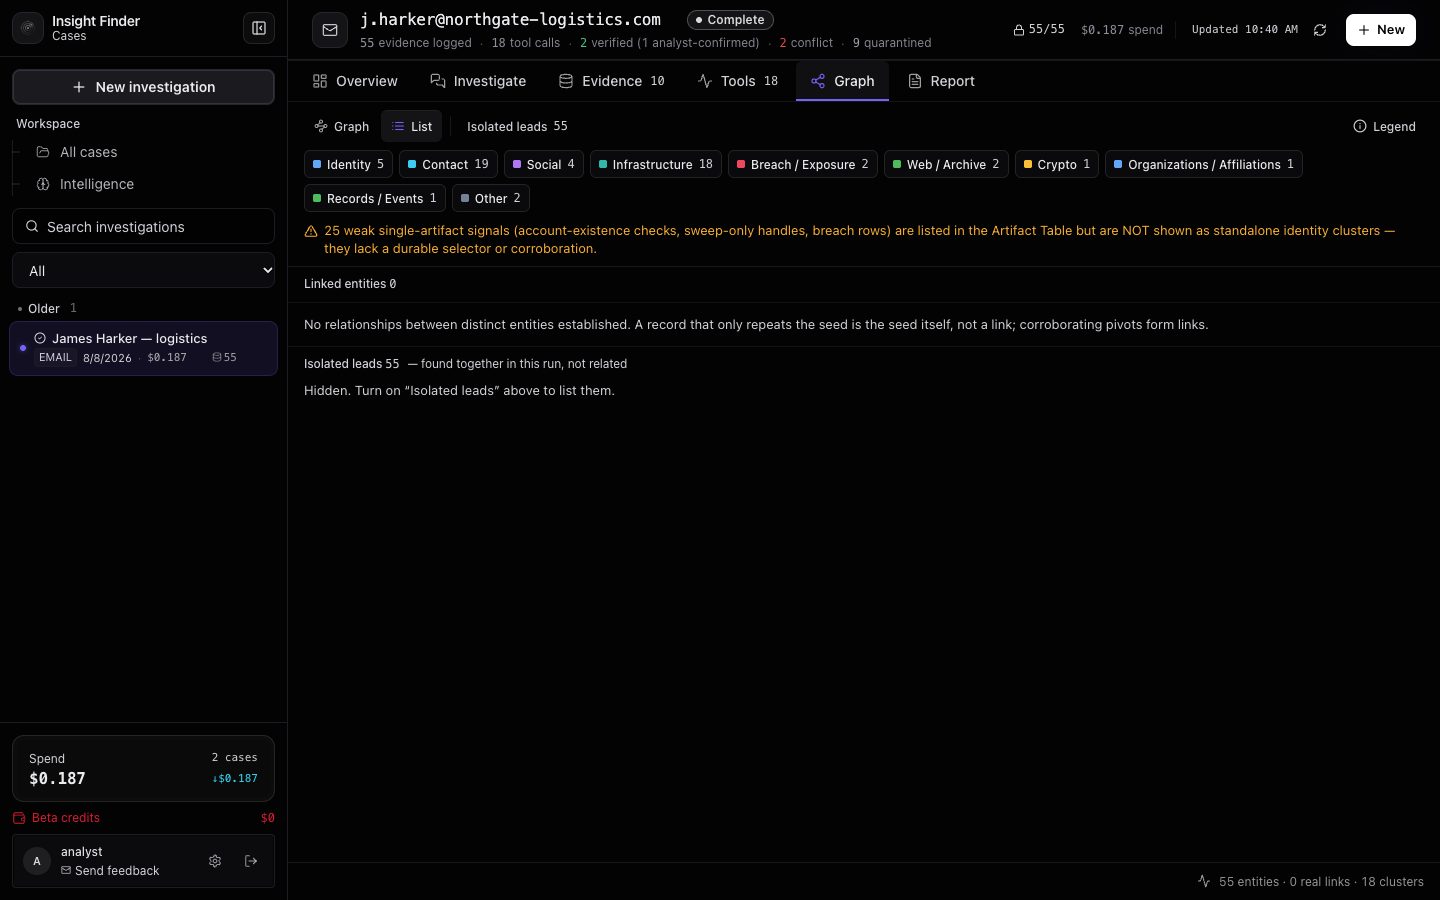
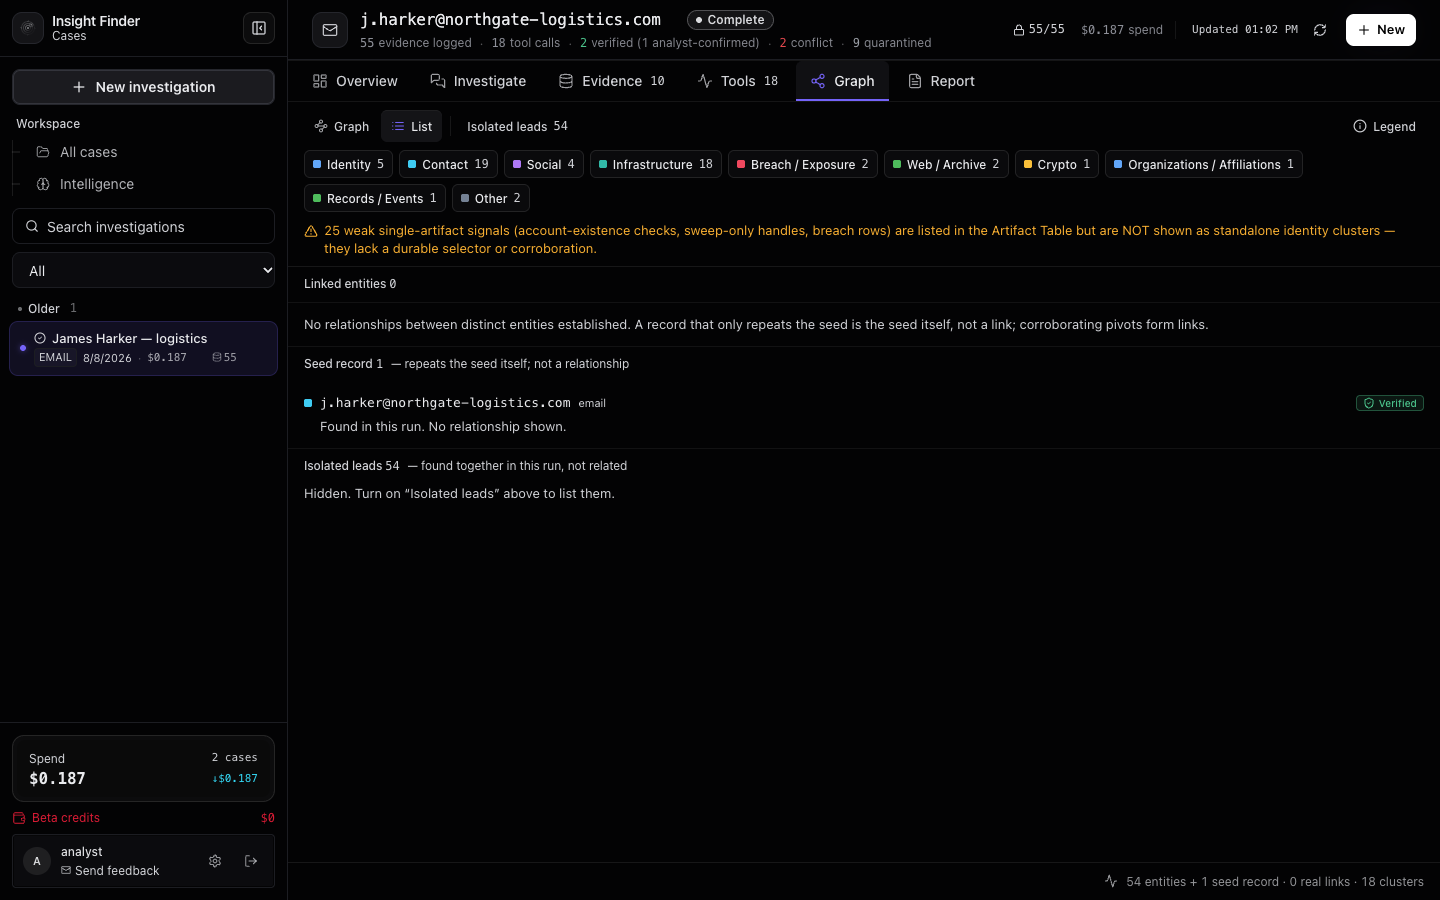
fix(workspace): one definition of isolated leads; seed records get their own section and footer count
Toggle count, list section, canvas filter and stats.isolatedCount now share isIsolatedLead(); the
seed's own record stays inspectable (always drawn, own list section) but is neither a lead nor a
relationship, and the footer reports 'N entities + 1 seed record'.

Changed region(s): [[0.2188, 0.3733, 0.4375, 0.56], [0.7812, 0.9644, 0.875, 0.9956], [0.9375, 0.4356, 1.0, 0.4667]]

diff --git a/src/components/workspace/GraphTab.tsx b/src/components/workspace/GraphTab.tsx
@@ -23,6 +23,8 @@ import {
   type EdgeType,
   type EntityGraph,
   type GraphNode as EntityNodeModel,
+  isIsolatedLead,
+  linkedNodeIds,
 } from "@/lib/entity-graph";
 import { ConfidenceMeter } from "@/components/investigation/primitives";
 import { CopyButton } from "@/components/ui/workspace-primitives";
@@ -196,20 +198,9 @@ const EntityNode = memo(function EntityNode({ data, selected }: NodeProps<Entity
 
 const nodeTypes = { entity: EntityNode };
 
-/** Nodes with at least one REAL relationship (identity or shared infrastructure). */
-function linkedNodeIds(graph: EntityGraph): Set<string> {
-  const ids = new Set<string>();
-  for (const e of graph.edges) {
-    if (e.type === "seed-discovery") continue;
-    ids.add(e.source);
-    ids.add(e.target);
-  }
-  return ids;
-}
-
 function toRfNodes(graph: EntityGraph, hidden: Set<Group>, showIsolated = true): Node<EntityNodeData>[] {
   const linked = linkedNodeIds(graph);
-  const visible = graph.nodes.filter((n) => (n.isSeed || !hidden.has(n.group)) && (showIsolated || n.isSeed || linked.has(n.id)));
+  const visible = graph.nodes.filter((n) => (n.isSeed || !hidden.has(n.group)) && (showIsolated || n.isSeed || n.seedRecord || linked.has(n.id)));
   const parts = splitSharedSuffixes(visible.map((n) => n.label));
   return visible
     .map((n) => ({
@@ -239,7 +230,7 @@ function toRfEdges(graph: EntityGraph, hidden: Set<Group>, selected: string | nu
   const linked = linkedNodeIds(graph);
   const visible = new Set(
     graph.nodes
-      .filter((n) => (n.isSeed || !hidden.has(n.group)) && (showIsolated || n.isSeed || linked.has(n.id)))
+      .filter((n) => (n.isSeed || !hidden.has(n.group)) && (showIsolated || n.isSeed || n.seedRecord || linked.has(n.id)))
       .map((n) => n.id),
   );
   return graph.edges
@@ -426,7 +417,7 @@ export function GraphTab({ threadId }: { threadId: string }) {
   const selectedAuthority = selectedNode?.art ? authorityFor(selectedNode.art, review.get(selectedNode.art.id)) : null;
   const linkedIds = useMemo(() => linkedNodeIds(graph), [graph]);
   const isolatedCount = useMemo(
-    () => graph.nodes.filter((n) => !n.isSeed && !linkedIds.has(n.id)).length,
+    () => graph.nodes.filter((n) => isIsolatedLead(n, linkedIds)).length,
     [graph, linkedIds],
   );
   const connections = useMemo(() => {
@@ -702,7 +693,7 @@ export function GraphTab({ threadId }: { threadId: string }) {
         <div className="ml-auto flex items-center gap-3">
           <span className="inline-flex items-center gap-2 text-data text-muted-foreground/70">
             <Activity className="h-3.5 w-3.5" />
-            {graph.stats.nodeCount} entit{graph.stats.nodeCount === 1 ? "y" : "ies"} · {graph.stats.realEdgeCount} real link{graph.stats.realEdgeCount === 1 ? "" : "s"} · {graph.stats.clusterCount} cluster{graph.stats.clusterCount === 1 ? "" : "s"}
+            {graph.stats.nodeCount - graph.stats.seedRecordCount} entit{graph.stats.nodeCount - graph.stats.seedRecordCount === 1 ? "y" : "ies"}{graph.stats.seedRecordCount > 0 && <> + {graph.stats.seedRecordCount} seed record{graph.stats.seedRecordCount > 1 ? "s" : ""}</>} · {graph.stats.realEdgeCount} real link{graph.stats.realEdgeCount === 1 ? "" : "s"} · {graph.stats.clusterCount} cluster{graph.stats.clusterCount === 1 ? "" : "s"}
             {graph.stats.bridgeCount > 0 && <> · {graph.stats.bridgeCount} bridge{graph.stats.bridgeCount > 1 ? "s" : ""}</>}
           </span>
         </div>
@@ -742,7 +733,8 @@ function GraphList({
   const byId = new Map(graph.nodes.map((n) => [n.id, n] as const));
   const visible = graph.nodes.filter((n) => !n.isSeed && !hidden.has(n.group));
   const linked = visible.filter((n) => linkedIds.has(n.id));
-  const isolated = visible.filter((n) => !linkedIds.has(n.id));
+  const isolated = visible.filter((n) => isIsolatedLead(n, linkedIds));
+  const seedRecords = visible.filter((n) => n.seedRecord);
 
   const row = (n: EntityNodeModel) => {
     const view = n.art ? authorityFor(n.art, review(n.art.id)) : null;
@@ -786,6 +778,15 @@ function GraphList({
           <ul className="divide-y divide-white/[0.06]">{linked.map(row)}</ul>
         )}
       </section>
+      {seedRecords.length > 0 && (
+        <section aria-labelledby="graph-list-seed-record" className="border-t border-white/[0.06]">
+          <h3 id="graph-list-seed-record" className="px-4 py-2 text-data font-medium text-muted-foreground">
+            Seed record <span className="font-mono tabular-nums">{seedRecords.length}</span>
+            <span className="ml-2 font-normal">— repeats the seed itself; not a relationship</span>
+          </h3>
+          <ul className="divide-y divide-white/[0.06]">{seedRecords.map(row)}</ul>
+        </section>
+      )}
       {isolated.length > 0 && (
         <section aria-labelledby="graph-list-isolated" className="border-t border-white/[0.06]">
           <h3 id="graph-list-isolated" className="px-4 py-2 text-data font-medium text-muted-foreground">

diff --git a/src/lib/entity-graph.ts b/src/lib/entity-graph.ts
@@ -58,6 +58,8 @@ export interface GraphNode {
   group: Group;
   confidence: number; // 0-100 (seed = 100)
   isSeed: boolean;
+  /** An artifact whose own value IS the seed's selector: the seed's record, not a separate entity or lead. */
+  seedRecord: boolean;
   conflict: boolean; // collision / conflict / breach — restrained destructive accent
   clusterId: string | null;
   degree: number;
@@ -94,7 +96,8 @@ export interface EntityGraph {
     realEdgeCount: number; // identity + co-record + shared-infra (excludes seed-discovery fallback)
     clusterCount: number;
     bridgeCount: number;
-    isolatedCount: number; // nodes only tied to the seed by the discovery fallback
+    isolatedCount: number; // nodes only tied to the seed by the discovery fallback (seed records excluded)
+    seedRecordCount: number; // records that merely repeat the seed's own selector; inspectable, never a relationship or a lead
   };
 }
 
@@ -254,6 +257,7 @@ export function buildEntityGraph(
         group: groupForKind(seedType ?? ""),
         confidence: 100,
         isSeed: true,
+        seedRecord: false,
         conflict: false,
         clusterId: null,
         degree: 0,
@@ -275,6 +279,7 @@ export function buildEntityGraph(
       group: groupForKind(a.kind),
       confidence: effectiveConfidenceOrZero(a),
       isSeed: false,
+      seedRecord: false,
       conflict: isConflict(a, reviews?.[a.id]),
       clusterId: clusterOf.get(a.id) ?? null,
       degree: 0,
@@ -403,6 +408,8 @@ export function buildEntityGraph(
       if (isConflict(a, reviews?.[a.id])) continue;
       if (!selectorsFor(a.kind, a.value, null).some((sel) => seedOwnKeys.has(sel.key))) continue;
       seedRecordIds.add(a.id);
+      const rec = nodeById.get(a.id);
+      if (rec) rec.seedRecord = true;
       upsertEdge(SEED_ID, a.id, "seed-discovery", `Same ${seedNode.kind} as the seed — the seed's own record, not a separate relationship`, SELECTOR_STRENGTH.parent);
     }
   }
@@ -454,7 +461,7 @@ export function buildEntityGraph(
     m.set(e.target, (m.get(e.target) ?? 0) + 1);
   }
   const isolatedCount = nodes.filter(
-    (n) => !n.isSeed && !seedRecordIds.has(n.id) && (realDeg.get(n.id) ?? 0) === 0 && (fallbackDeg.get(n.id) ?? 0) > 0,
+    (n) => !n.isSeed && !n.seedRecord && (realDeg.get(n.id) ?? 0) === 0 && (fallbackDeg.get(n.id) ?? 0) > 0,
   ).length;
 
   return {
@@ -469,9 +476,31 @@ export function buildEntityGraph(
       clusterCount: clusterReport.clusters.length,
       bridgeCount: edges.filter((e) => e.bridge).length,
       isolatedCount,
+      seedRecordCount: seedRecordIds.size,
     },
   };
 }
+
+/** Nodes with at least one REAL relationship (identity or shared infrastructure). */
+export function linkedNodeIds(graph: EntityGraph): Set<string> {
+  const ids = new Set<string>();
+  for (const e of graph.edges) {
+    if (e.type === "seed-discovery") continue;
+    ids.add(e.source);
+    ids.add(e.target);
+  }
+  return ids;
+}
+
+/**
+ * ONE definition of an isolated lead, shared by the toggle count, the list section and the canvas filter: a non-seed
+ * entity with no real relationship that is not the seed's own record. Seed records stay visible and inspectable
+ * (their own section / always drawn) but are neither a lead nor a relationship.
+ */
+export function isIsolatedLead(n: GraphNode, linked: Set<string>): boolean {
+  return !n.isSeed && !n.seedRecord && !linked.has(n.id);
+}
+
 
 /* A rendered node chip is ~190px wide and ~34px tall. Every spacing constant
  * below is derived from that, because the previous layout packed 24 nodes onto

diff --git a/src/test/entity-graph-seed-record.test.ts b/src/test/entity-graph-seed-record.test.ts
@@ -2,7 +2,7 @@
 // identity edge counted as "1 real link" (measured 2026-10-24, audited case). Seed-record association is provenance,
 // not a relationship; real links between distinct entities must survive.
 import { describe, expect, it } from "vitest";
-import { buildEntityGraph, SEED_ID } from "@/lib/entity-graph";
+import { buildEntityGraph, isIsolatedLead, linkedNodeIds, SEED_ID } from "@/lib/entity-graph";
 import type { Artifact } from "@/hooks/useThreadArtifacts";
 
 const A = (o: Partial<Artifact>): Artifact => ({
@@ -94,5 +94,35 @@ describe("seed ↔ same-selector artifact", () => {
       expect(g.stats.realEdgeCount).toBe(0);
       expect(g.nodes.find((n) => n.id === art.id)?.clusterId).toBeNull();
     }
+  });
+});
+
+describe("isolated-lead membership is ONE definition (toggle count, list section, stat)", () => {
+  const arts = [
+    A({ id: "rec" }), // the seed's own record
+    A({ id: "phone", kind: "phone", value: "925-813-9324" }), // a genuine isolated lead
+    A({ id: "u1", kind: "username", value: "shared_one" }),
+    A({ id: "u2", kind: "username", value: "@Shared_One" }), // linked pair
+  ];
+  const g = buildEntityGraph(arts, "x@y.com", "email");
+  const linked = linkedNodeIds(g);
+
+  it("seed record is flagged, counted once, and is neither an isolated lead nor linked", () => {
+    expect(g.nodes.find((n) => n.id === "rec")?.seedRecord).toBe(true);
+    expect(g.stats.seedRecordCount).toBe(1);
+    expect(linked.has("rec")).toBe(false);
+    expect(isIsolatedLead(g.nodes.find((n) => n.id === "rec")!, linked)).toBe(false);
+  });
+
+  it("the toggle count, the list section and stats.isolatedCount agree (only the phone)", () => {
+    const toggle = g.nodes.filter((n) => isIsolatedLead(n, linked)).map((n) => n.id);
+    expect(toggle).toEqual(["phone"]);
+    expect(g.stats.isolatedCount).toBe(toggle.length);
+  });
+
+  it("the footer's entity count excludes seed records; the record stays an inspectable node", () => {
+    expect(g.stats.nodeCount - g.stats.seedRecordCount).toBe(3);
+    expect(g.nodes.some((n) => n.id === "rec" && n.art?.id === "rec")).toBe(true);
+    expect(g.stats.realEdgeCount).toBe(1); // only the u1–u2 identity link
   });
 });
